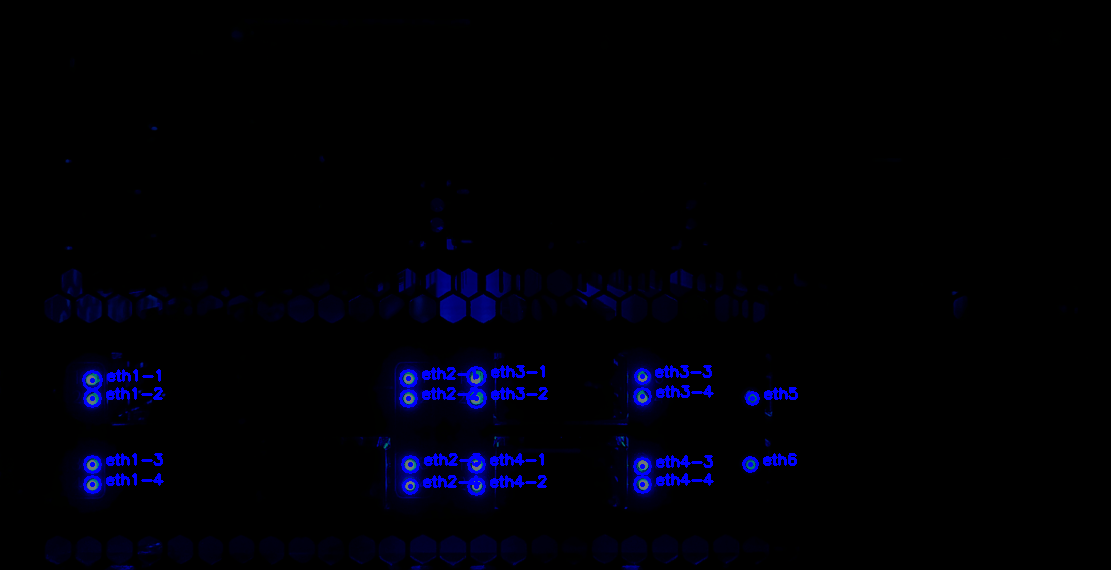
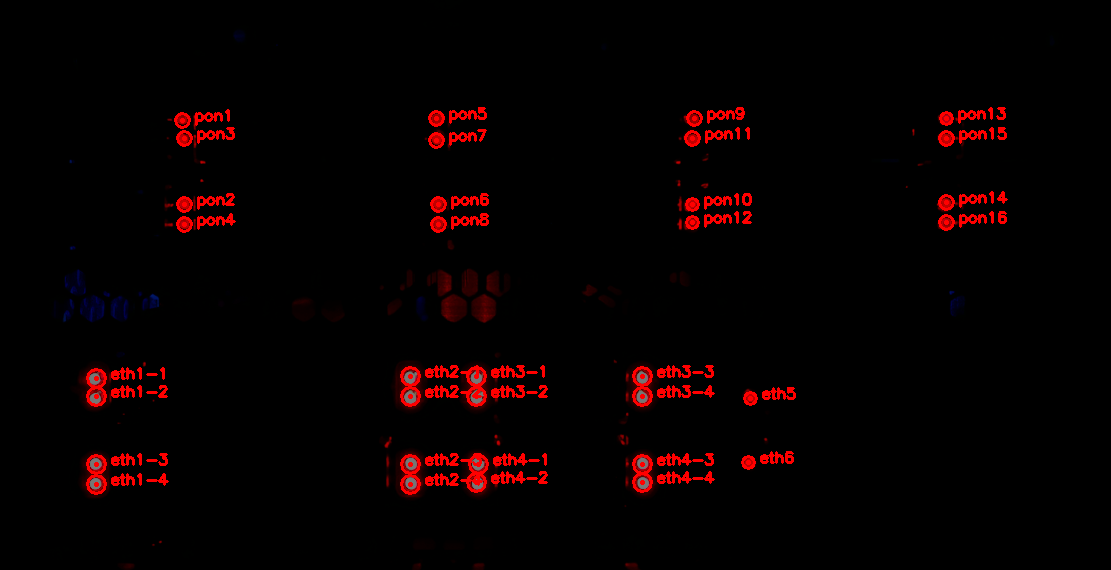
updates

diff --git a/LED_missingsockets.py b/LED_missingsockets.py
@@ -26,6 +26,8 @@ def getLEDID(center):
         if isinstance(value, list) and len(value) == 2:
             dist = math.sqrt((center[0] - value[0]) ** 2 + (center[1] - value[1]) ** 2)
             if dist < min_dist:
+                if dist > 10:
+                    continue
                 min_dist = dist
                 ID = key
 
@@ -108,8 +110,8 @@ def detect_LED(frame):
     original_image = frame.copy()  # Keep a copy of the original image for color detection
     image = cv2.cvtColor(frame,cv2.COLOR_BGR2GRAY)
     # Convert grayscale image to binary using a threshold
-    blur_image = cv2.GaussianBlur(image, (5,5), 1)  # Apply Gaussian blur to reduce noise
-    _, binary_image = cv2.threshold(blur_image, 35, 255, cv2.THRESH_BINARY)
+    #blur_image = cv2.GaussianBlur(image, (5,5), 1)  # Apply Gaussian blur to reduce noise
+    _, binary_image = cv2.threshold(image, 30, 255, cv2.THRESH_BINARY)
 
     kernel = np.ones((3, 3), np.uint8)  # 3x3 structuring element
     dilated = cv2.dilate(binary_image, kernel, iterations=1)
@@ -132,15 +134,15 @@ def detect_LED(frame):
         for i in circles[0, :]:
             center = (i[0], i[1])
             radius = i[2]
-            # Detect color of the LED
-            dominant_color, color_percentages, draw_color = detect_led_color(original_image, center[0], center[1], radius)
-            cv2.circle(frame, center, 1, draw_color, 2)  # Green center
-            cv2.circle(frame, center, radius, draw_color, 2)  # Red outline
-            #print(center)
             ledid=getLEDID(center)
-            cv2.putText(frame,f"{ledid}",
-                        (center[0] + radius+5, center[1]),
-                        cv2.FONT_HERSHEY_SIMPLEX, 0.5, draw_color, 2)
+            # Detect color of the LE
+            
+            if ledid is not None:
+                dominant_color, color_percentages, draw_color = detect_led_color(original_image, center[0], center[1], radius)
+                cv2.circle(frame, center, 1, draw_color, 2)  # Green center
+                cv2.circle(frame, center, radius, draw_color, 2)  # Red outline
+                #print(center)
+                cv2.putText(frame,f"{ledid}",(center[0] + radius+5, center[1]),cv2.FONT_HERSHEY_SIMPLEX, 0.5, draw_color, 2)
     return frame
 
 
@@ -155,7 +157,7 @@ def create_pipeline():
     cam_rgb.setBoardSocket(dai.CameraBoardSocket.CAM_A)
     cam_rgb.setResolution(dai.ColorCameraProperties.SensorResolution.THE_4000X3000)  # 4056x3040
     cam_rgb.setFps(30)
-    cam_rgb.initialControl.setManualFocus(160)
+    cam_rgb.initialControl.setManualFocus(150)
     cam_rgb.initialControl.setManualExposure(8000, 100)
     cam_rgb.initialControl.setBrightness(-6) #-10 .. 10
     cam_rgb.initialControl.setManualWhiteBalance(1000)#1000..12000
